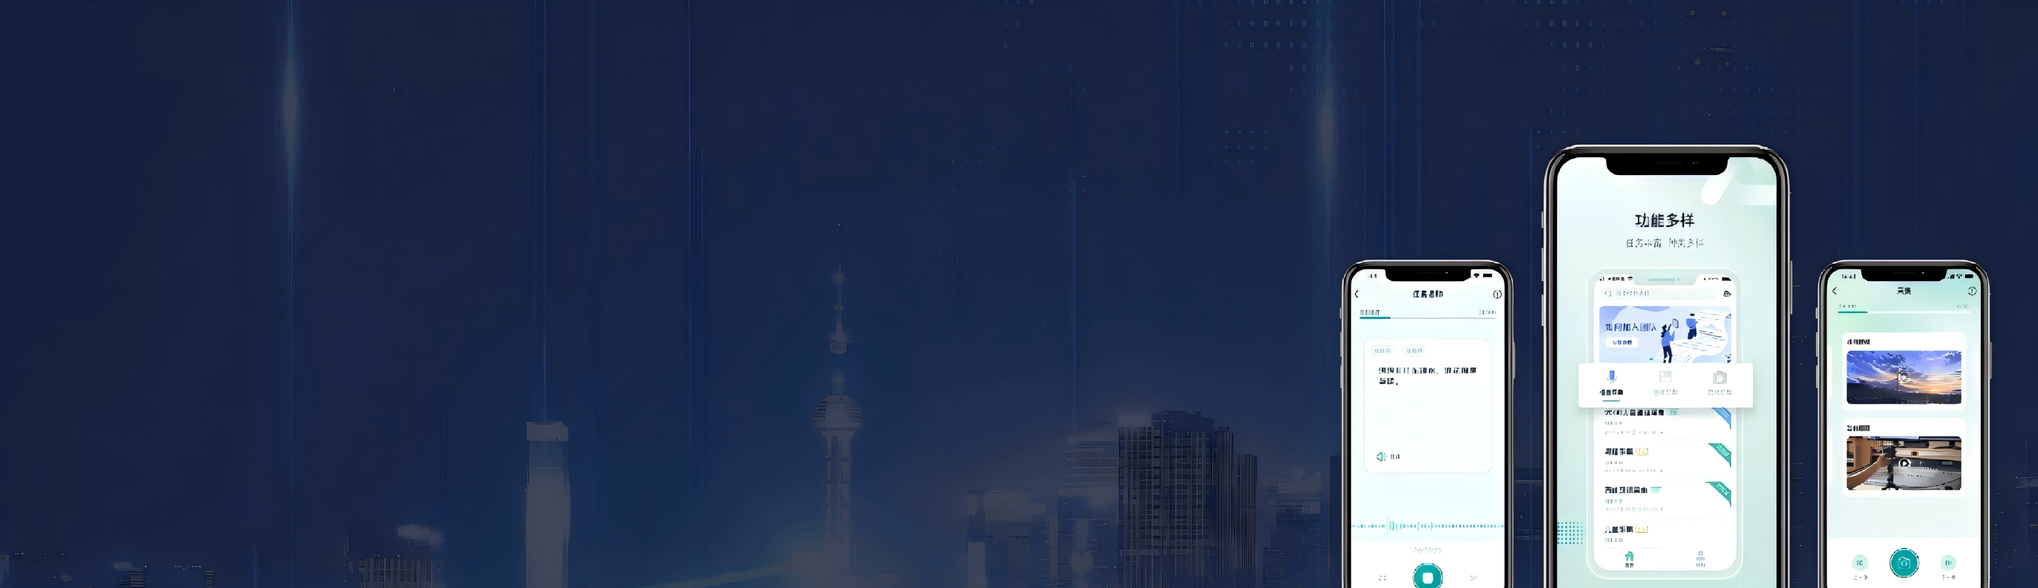
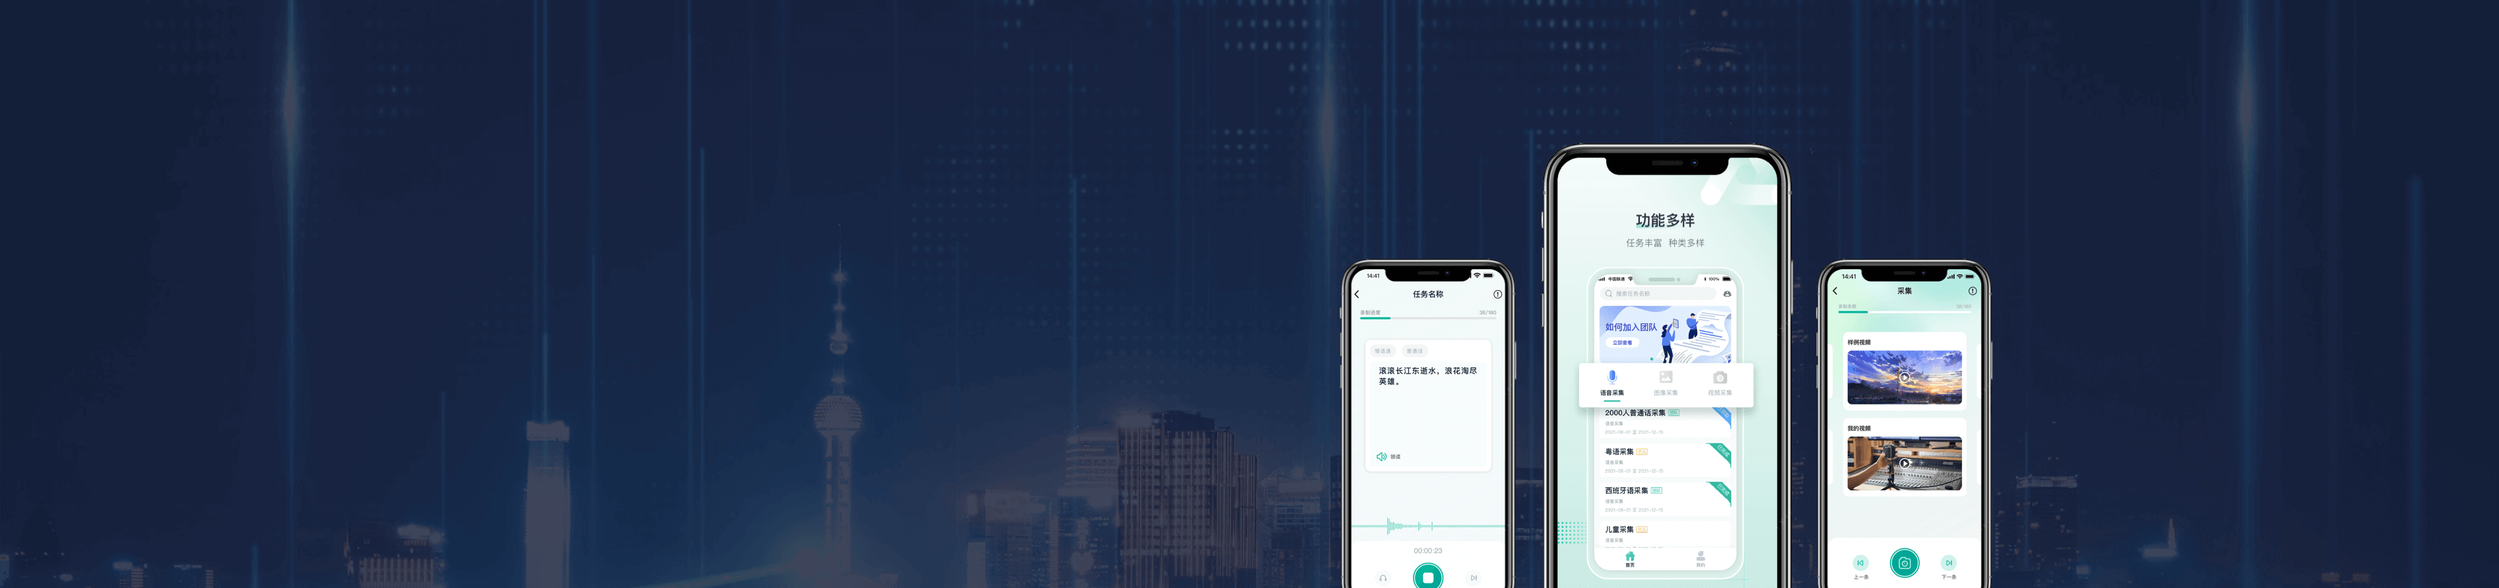
0713修改细节

diff --git a/web/dataset_speech_tts.html b/web/dataset_speech_tts.html
@@ -143,18 +143,35 @@
     <div class="voices-grid" data-reveal>
       <article class="voice-card">
         <div class="voice-head">
+          <div class="voice-avatar va-d">🌐</div>
+          <div class="info">
+            <h3>多人语音合成音库</h3>
+            <div class="voice-tags"><span>多人对话</span><span>多场景</span><span>指令</span></div>
+          </div>
+        </div>
+        <div class="mini-spec">
+          <span style="height:75%;animation-delay:.0s"></span><span style="height:55%;animation-delay:.06s"></span><span style="height:85%;animation-delay:.12s"></span><span style="height:40%;animation-delay:.18s"></span><span style="height:65%;animation-delay:.24s"></span><span style="height:100%;animation-delay:.30s"></span><span style="height:50%;animation-delay:.36s"></span><span style="height:80%;animation-delay:.42s"></span><span style="height:35%;animation-delay:.48s"></span><span style="height:90%;animation-delay:.54s"></span><span style="height:70%;animation-delay:.60s"></span><span style="height:45%;animation-delay:.66s"></span><span style="height:60%;animation-delay:.72s"></span><span style="height:75%;animation-delay:.78s"></span><span style="height:95%;animation-delay:.84s"></span><span style="height:55%;animation-delay:.90s"></span><span style="height:40%;animation-delay:.96s"></span><span style="height:65%;animation-delay:1.02s"></span><span style="height:80%;animation-delay:1.08s"></span><span style="height:50%;animation-delay:1.14s"></span>
+        </div>
+        <p class="voice-quote">「适合多人对话、多场景应用的高质量语音合成音库。</p>
+        <div class="voice-foot">
+          <span>采样率 <b>48 kHz</b></span><span>时长 <b>1700 h+</b></span>
+        </div>
+      </article>
+
+      <article class="voice-card">
+        <div class="voice-head">
           <div class="voice-avatar va-a">🎙</div>
           <div class="info">
-            <h3>外语语音合成音库</h3>
+            <h3>大规模拟真多风格语音合成数据集</h3>
             <div class="voice-tags"><span>native语种</span></div>
           </div>
         </div>
         <div class="mini-spec">
           <span style="height:35%;animation-delay:.0s"></span><span style="height:55%;animation-delay:.06s"></span><span style="height:80%;animation-delay:.12s"></span><span style="height:100%;animation-delay:.18s"></span><span style="height:70%;animation-delay:.24s"></span><span style="height:90%;animation-delay:.30s"></span><span style="height:60%;animation-delay:.36s"></span><span style="height:45%;animation-delay:.42s"></span><span style="height:75%;animation-delay:.48s"></span><span style="height:95%;animation-delay:.54s"></span><span style="height:55%;animation-delay:.60s"></span><span style="height:80%;animation-delay:.66s"></span><span style="height:50%;animation-delay:.72s"></span><span style="height:65%;animation-delay:.78s"></span><span style="height:88%;animation-delay:.84s"></span><span style="height:42%;animation-delay:.90s"></span><span style="height:72%;animation-delay:.96s"></span><span style="height:58%;animation-delay:1.02s"></span><span style="height:84%;animation-delay:1.08s"></span><span style="height:48%;animation-delay:1.14s"></span>
         </div>
-        <p class="voice-quote">「适合多语种、多场景应用的高质量语音合成音库。</p>
+        <p class="voice-quote">「适合多语种、多场景应用的高质量语音合成数据集。</p>
         <div class="voice-foot">
-          <span>采样率 <b>48 kHz</b></span><span>时长 <b>60 h+</b></span>
+          <span>采样率 <b>48 kHz</b></span><span>时长 <b>1000 h+</b></span>
         </div>
       </article>
 
@@ -196,16 +213,33 @@
         <div class="voice-head">
           <div class="voice-avatar va-d">🌐</div>
           <div class="info">
-            <h3>多人语音合成音库</h3>
-            <div class="voice-tags"><span>多人对话</span><span>多场景</span><span>指令</span></div>
+            <h3>多音色情感指令控制数据库</h3>
+            <div class="voice-tags"><span>多情绪</span><span>多场景</span><span>指令</span></div>
           </div>
         </div>
         <div class="mini-spec">
           <span style="height:75%;animation-delay:.0s"></span><span style="height:55%;animation-delay:.06s"></span><span style="height:85%;animation-delay:.12s"></span><span style="height:40%;animation-delay:.18s"></span><span style="height:65%;animation-delay:.24s"></span><span style="height:100%;animation-delay:.30s"></span><span style="height:50%;animation-delay:.36s"></span><span style="height:80%;animation-delay:.42s"></span><span style="height:35%;animation-delay:.48s"></span><span style="height:90%;animation-delay:.54s"></span><span style="height:70%;animation-delay:.60s"></span><span style="height:45%;animation-delay:.66s"></span><span style="height:60%;animation-delay:.72s"></span><span style="height:75%;animation-delay:.78s"></span><span style="height:95%;animation-delay:.84s"></span><span style="height:55%;animation-delay:.90s"></span><span style="height:40%;animation-delay:.96s"></span><span style="height:65%;animation-delay:1.02s"></span><span style="height:80%;animation-delay:1.08s"></span><span style="height:50%;animation-delay:1.14s"></span>
         </div>
-        <p class="voice-quote">「适合多人对话、多场景应用的高质量语音合成音库。</p>
+        <p class="voice-quote">「适合多情绪、多场景应用的高质量语音合成音库。</p>
         <div class="voice-foot">
-          <span>采样率 <b>48 kHz</b></span><span>时长 <b>1700 h+</b></span>
+          <span>采样率 <b>48 kHz</b></span><span>时长 <b>100 h+</b></span>
+        </div>
+      </article>
+
+      <article class="voice-card">
+        <div class="voice-head">
+          <div class="voice-avatar va-d">🌐</div>
+          <div class="info">
+            <h3>多音字语音数据集</h3>
+            <div class="voice-tags"><span>发音标注</span><span>多音字</span><span>标签</span></div>
+          </div>
+        </div>
+        <div class="mini-spec">
+          <span style="height:75%;animation-delay:.0s"></span><span style="height:55%;animation-delay:.06s"></span><span style="height:85%;animation-delay:.12s"></span><span style="height:40%;animation-delay:.18s"></span><span style="height:65%;animation-delay:.24s"></span><span style="height:100%;animation-delay:.30s"></span><span style="height:50%;animation-delay:.36s"></span><span style="height:80%;animation-delay:.42s"></span><span style="height:35%;animation-delay:.48s"></span><span style="height:90%;animation-delay:.54s"></span><span style="height:70%;animation-delay:.60s"></span><span style="height:45%;animation-delay:.66s"></span><span style="height:60%;animation-delay:.72s"></span><span style="height:75%;animation-delay:.78s"></span><span style="height:95%;animation-delay:.84s"></span><span style="height:55%;animation-delay:.90s"></span><span style="height:40%;animation-delay:.96s"></span><span style="height:65%;animation-delay:1.02s"></span><span style="height:80%;animation-delay:1.08s"></span><span style="height:50%;animation-delay:1.14s"></span>
+        </div>
+        <p class="voice-quote">「适合多音字发音标注与语音数据处理的应用场景。</p>
+        <div class="voice-foot">
+          <span>采样率 <b>48 kHz</b></span><span>时长 <b>120 h+</b></span>
         </div>
       </article>
     </div>

diff --git a/web/tool_annotation.html b/web/tool_annotation.html
@@ -161,12 +161,12 @@
     </div>
     <div class="ec-task" data-reveal>
       <div class="ec-admin-grid">
-        <div class="ec-admin-card"><span class="num">01</span><div class="icb"><svg viewBox="0 0 24 24" fill="none" stroke="currentColor" stroke-width="1.7"><path d="M4 5h16M4 12h16M4 19h10"/><path d="M17 16l2 2 4-4"/></svg></div><h4>项目管理</h4><p>统一创建项目、批次、任务包与人员角色，支撑大规模标注生产调度。</p></div>
-        <div class="ec-admin-card"><span class="num">02</span><div class="icb"><svg viewBox="0 0 24 24" fill="none" stroke="currentColor" stroke-width="1.7"><path d="M3 3v18h18"/><path d="M7 15l4-4 3 3 5-7"/></svg></div><h4>进度监控</h4><p>实时查看产能、通过率、返修率与质检结果，让异常节点及时暴露。</p></div>
-        <div class="ec-admin-card"><span class="num">03</span><div class="icb"><svg viewBox="0 0 24 24" fill="none" stroke="currentColor" stroke-width="1.7"><path d="M12 22s8-4 8-10V5l-8-3-8 3v7c0 6 8 10 8 10z"/><path d="M9 12l2 2 4-4"/></svg></div><h4>质检规则</h4><p>按任务类型配置抽检比例、验收阈值、返修规则和多轮审核策略。</p></div>
-        <div class="ec-admin-card"><span class="num">04</span><div class="icb"><svg viewBox="0 0 24 24" fill="none" stroke="currentColor" stroke-width="1.7"><circle cx="6" cy="6" r="2"/><circle cx="18" cy="6" r="2"/><circle cx="12" cy="18" r="2"/><path d="M8 7l3 8M16 7l-3 8"/></svg></div><h4>流程配置</h4><p>按试标、生产、质检、复核、验收配置线上流转，保持过程可追溯。</p></div>
-        <div class="ec-admin-card"><span class="num">05</span><div class="icb"><svg viewBox="0 0 24 24" fill="none" stroke="currentColor" stroke-width="1.7"><path d="M8 9l-4 3 4 3M16 9l4 3-4 3"/><path d="M14 5l-4 14"/></svg></div><h4>脚本配置</h4><p>沉淀题目说明、快捷操作、字段校验和场景化标注模板。</p></div>
-        <div class="ec-admin-card"><span class="num">06</span><div class="icb"><svg viewBox="0 0 24 24" fill="none" stroke="currentColor" stroke-width="1.7"><rect x="5" y="5" width="14" height="14" rx="3"/><path d="M9 2v3M15 2v3M9 19v3M15 19v3M2 9h3M2 15h3M19 9h3M19 15h3"/><path d="M9 12h6"/></svg></div><h4>模型配置</h4><p>接入预标注、辅助质检与自动校验模型，提升标注效率和一致性。</p></div>
+        <div class="ec-admin-card"><div class="icb"><svg viewBox="0 0 24 24" fill="none" stroke="currentColor" stroke-width="1.7"><path d="M4 5h16M4 12h16M4 19h10"/><path d="M17 16l2 2 4-4"/></svg></div><h4>项目管理</h4><p>统一创建项目、批次、任务包与人员角色，支撑大规模标注生产调度。</p></div>
+        <div class="ec-admin-card"><div class="icb"><svg viewBox="0 0 24 24" fill="none" stroke="currentColor" stroke-width="1.7"><path d="M3 3v18h18"/><path d="M7 15l4-4 3 3 5-7"/></svg></div><h4>进度监控</h4><p>实时查看产能、通过率、返修率与质检结果，让异常节点及时暴露。</p></div>
+        <div class="ec-admin-card"><div class="icb"><svg viewBox="0 0 24 24" fill="none" stroke="currentColor" stroke-width="1.7"><path d="M12 22s8-4 8-10V5l-8-3-8 3v7c0 6 8 10 8 10z"/><path d="M9 12l2 2 4-4"/></svg></div><h4>质检规则</h4><p>按任务类型配置抽检比例、验收阈值、返修规则和多轮审核策略。</p></div>
+        <div class="ec-admin-card"><div class="icb"><svg viewBox="0 0 24 24" fill="none" stroke="currentColor" stroke-width="1.7"><circle cx="6" cy="6" r="2"/><circle cx="18" cy="6" r="2"/><circle cx="12" cy="18" r="2"/><path d="M8 7l3 8M16 7l-3 8"/></svg></div><h4>流程配置</h4><p>按试标、生产、质检、复核、验收配置线上流转，保持过程可追溯。</p></div>
+        <div class="ec-admin-card"><div class="icb"><svg viewBox="0 0 24 24" fill="none" stroke="currentColor" stroke-width="1.7"><path d="M8 9l-4 3 4 3M16 9l4 3-4 3"/><path d="M14 5l-4 14"/></svg></div><h4>脚本配置</h4><p>沉淀题目说明、快捷操作、字段校验和场景化标注模板。</p></div>
+        <div class="ec-admin-card"><div class="icb"><svg viewBox="0 0 24 24" fill="none" stroke="currentColor" stroke-width="1.7"><rect x="5" y="5" width="14" height="14" rx="3"/><path d="M9 2v3M15 2v3M9 19v3M15 19v3M2 9h3M2 15h3M19 9h3M19 15h3"/><path d="M9 12h6"/></svg></div><h4>模型配置</h4><p>接入预标注、辅助质检与自动校验模型，提升标注效率和一致性。</p></div>
       </div>
     </div>
   </div>
@@ -200,10 +200,10 @@
           <div class="sec-control-stack">
             <div class="sec-hub"><div><b>权限闭环中台</b><span>USER · TASK · DATA · LOG</span></div></div>
             <div class="sec-control-grid">
-              <div class="sec-control"><i>01</i><b>角色授权</b><span>按组织、项目、任务维度控制可见与可操作范围。</span></div>
-              <div class="sec-control"><i>02</i><b>数据水印</b><span>模板水印与导出标识绑定账号，降低泄露风险。</span></div>
-              <div class="sec-control"><i>03</i><b>登录验证</b><span>账号认证、异常登录提醒和敏感操作二次校验。</span></div>
-              <div class="sec-control"><i>04</i><b>日志审计</b><span>记录任务流转、质检验收、文件导出和 API 调用。</span></div>
+              <div class="sec-control"><b>角色授权</b><span>按组织、项目、任务维度控制可见与可操作范围。</span></div>
+              <div class="sec-control"><b>数据水印</b><span>模板水印与导出标识绑定账号，降低泄露风险。</span></div>
+              <div class="sec-control"><b>登录验证</b><span>账号认证、异常登录提醒和敏感操作二次校验。</span></div>
+              <div class="sec-control"><b>日志审计</b><span>记录任务流转、质检验收、文件导出和 API 调用。</span></div>
             </div>
           </div>
         </div>

diff --git a/web/tool_collection.html b/web/tool_collection.html
@@ -156,7 +156,7 @@
 </head>
 <body>
 <div id="nav-placeholder"></div>
-<section class="page-hero has-hero-img" style="--hero-img:url('images/collection/ecai/ecai.png')">
+<section class="page-hero has-hero-img hero-art-half" style="--hero-img:url('images/collection/ecai/ecai.png')">
   <div class="container">
     <span class="eyebrow">Collection · 标贝易采</span>
     <h1 class="display" style="font-size:clamp(2.2rem,4.8vw,4rem);margin:16px 0 20px;">
@@ -231,12 +231,12 @@
     </div>
     <div class="ec-task" data-reveal>
       <div class="ec-admin-grid">
-        <div class="ec-admin-card"><span class="num">01</span><div class="icb"><svg viewBox="0 0 24 24" fill="none" stroke="currentColor" stroke-width="1.7"><path d="M4 5h16M4 12h16M4 19h10"/><path d="M16 17l2 2 4-4"/></svg></div><h4>样本管理</h4><p>按人群、地区、设备、场景维护样本池，支持采集任务快速匹配。</p></div>
-        <div class="ec-admin-card"><span class="num">02</span><div class="icb"><svg viewBox="0 0 24 24" fill="none" stroke="currentColor" stroke-width="1.7"><path d="M12 20V10"/><path d="M18 20V4"/><path d="M6 20v-6"/></svg></div><h4>进度监控</h4><p>跟踪报名、执行、回收、审核和交付状态，实时掌握采集节奏。</p></div>
-        <div class="ec-admin-card"><span class="num">03</span><div class="icb"><svg viewBox="0 0 24 24" fill="none" stroke="currentColor" stroke-width="1.7"><path d="M4 4h16v6H4zM4 14h7v6H4zM15 14h5v6h-5z"/></svg></div><h4>招募规则</h4><p>配置地域、年龄、设备、环境与配额条件，保证样本结构达标。</p></div>
-        <div class="ec-admin-card"><span class="num">04</span><div class="icb"><svg viewBox="0 0 24 24" fill="none" stroke="currentColor" stroke-width="1.7"><circle cx="5" cy="6" r="2"/><circle cx="19" cy="6" r="2"/><circle cx="12" cy="18" r="2"/><path d="M7 7l4 8M17 7l-4 8"/></svg></div><h4>采集流程</h4><p>自定义报名、培训、采录、上传、初审与复核节点，统一线上流转。</p></div>
-        <div class="ec-admin-card"><span class="num">05</span><div class="icb"><svg viewBox="0 0 24 24" fill="none" stroke="currentColor" stroke-width="1.7"><path d="M6 3h9l3 3v15H6z"/><path d="M15 3v4h4M9 12h6M9 16h4"/></svg></div><h4>场景脚本</h4><p>沉淀话术、动作、拍摄角度、噪声环境等采集脚本，减少现场偏差。</p></div>
-        <div class="ec-admin-card"><span class="num">06</span><div class="icb"><svg viewBox="0 0 24 24" fill="none" stroke="currentColor" stroke-width="1.7"><rect x="5" y="7" width="14" height="11" rx="2"/><path d="M9 7V5h6v2M9 18v2h6v-2M8 12h8"/></svg></div><h4>设备模型</h4><p>管理手机、车机、麦克风、摄像头等设备参数，确保采集标准一致。</p></div>
+        <div class="ec-admin-card"><div class="icb"><svg viewBox="0 0 24 24" fill="none" stroke="currentColor" stroke-width="1.7"><path d="M4 5h16M4 12h16M4 19h10"/><path d="M16 17l2 2 4-4"/></svg></div><h4>样本管理</h4><p>按人群、地区、设备、场景维护样本池，支持采集任务快速匹配。</p></div>
+        <div class="ec-admin-card"><div class="icb"><svg viewBox="0 0 24 24" fill="none" stroke="currentColor" stroke-width="1.7"><path d="M12 20V10"/><path d="M18 20V4"/><path d="M6 20v-6"/></svg></div><h4>进度监控</h4><p>跟踪报名、执行、回收、审核和交付状态，实时掌握采集节奏。</p></div>
+        <div class="ec-admin-card"><div class="icb"><svg viewBox="0 0 24 24" fill="none" stroke="currentColor" stroke-width="1.7"><path d="M4 4h16v6H4zM4 14h7v6H4zM15 14h5v6h-5z"/></svg></div><h4>招募规则</h4><p>配置地域、年龄、设备、环境与配额条件，保证样本结构达标。</p></div>
+        <div class="ec-admin-card"><div class="icb"><svg viewBox="0 0 24 24" fill="none" stroke="currentColor" stroke-width="1.7"><circle cx="5" cy="6" r="2"/><circle cx="19" cy="6" r="2"/><circle cx="12" cy="18" r="2"/><path d="M7 7l4 8M17 7l-4 8"/></svg></div><h4>采集流程</h4><p>自定义报名、培训、采录、上传、初审与复核节点，统一线上流转。</p></div>
+        <div class="ec-admin-card"><div class="icb"><svg viewBox="0 0 24 24" fill="none" stroke="currentColor" stroke-width="1.7"><path d="M6 3h9l3 3v15H6z"/><path d="M15 3v4h4M9 12h6M9 16h4"/></svg></div><h4>场景脚本</h4><p>沉淀话术、动作、拍摄角度、噪声环境等采集脚本，减少现场偏差。</p></div>
+        <div class="ec-admin-card"><div class="icb"><svg viewBox="0 0 24 24" fill="none" stroke="currentColor" stroke-width="1.7"><rect x="5" y="7" width="14" height="11" rx="2"/><path d="M9 7V5h6v2M9 18v2h6v-2M8 12h8"/></svg></div><h4>设备模型</h4><p>管理手机、车机、麦克风、摄像头等设备参数，确保采集标准一致。</p></div>
       </div>
     </div>
   </div>

diff --git a/web/_shared.css b/web/_shared.css
@@ -372,6 +372,32 @@ a.mega-section-title:hover .mst-arrow { opacity: 1; transform: translateX(0); }
 .page-hero.has-hero-img { min-height: 100vh; min-height: 100svh; background: #0a1530 var(--hero-img) right center/cover no-repeat; }
 .page-hero.has-hero-img::before { z-index: 0; background: linear-gradient(90deg, rgba(5,8,19,0.94) 0%, rgba(5,8,19,0.72) 40%, rgba(5,8,19,0.3) 70%, rgba(5,8,19,0.08) 100%); pointer-events: none; }
 .page-hero.has-hero-img > .container { position: relative; z-index: 1; }
+/* 保持 Hero 全屏尺寸，仅将横幅画面缩至 Hero 高度的一半，并柔化画面边缘。 */
+.page-hero.has-hero-img.hero-art-half { background: #0a1530; isolation: isolate; }
+.page-hero.has-hero-img.hero-art-half::before {
+  inset: 0;
+  z-index: 0;
+  background: var(--hero-img) right center / auto 50% no-repeat;
+  -webkit-mask-image: radial-gradient(ellipse 78% 30% at 82% 50%, #000 48%, rgba(0,0,0,0.88) 66%, transparent 100%);
+  mask-image: radial-gradient(ellipse 78% 30% at 82% 50%, #000 48%, rgba(0,0,0,0.88) 66%, transparent 100%);
+  pointer-events: none;
+}
+.page-hero.has-hero-img.hero-art-half::after {
+  inset: 0;
+  z-index: 0;
+  height: auto;
+  background:
+    linear-gradient(90deg, rgba(5,8,19,0.96) 0%, rgba(5,8,19,0.88) 42%, rgba(5,8,19,0.55) 62%, rgba(5,8,19,0.12) 82%, rgba(5,8,19,0.04) 100%),
+    linear-gradient(0deg, var(--grad-line) 0 1px, transparent 1px);
+  pointer-events: none;
+}
+/* 悦读图自身留白更大：校准取景，使手机主体的尺寸与易采 Hero 保持一致。 */
+.page-hero.has-hero-img.hero-art-half.hero-art-reader::before {
+  background-position: 50% center;
+  background-size: auto 60%;
+  -webkit-mask-image: radial-gradient(ellipse 40% 36% at 65% 50%, #000 48%, rgba(0,0,0,0.88) 66%, transparent 100%);
+  mask-image: radial-gradient(ellipse 40% 36% at 65% 50%, #000 48%, rgba(0,0,0,0.88) 66%, transparent 100%);
+}
 .crumbs { display: none !important; align-items: center; gap: 8px; margin-bottom: 22px; color: var(--text-mute); font-family: var(--font-mono); font-size: 11px; letter-spacing: 0.14em; text-transform: uppercase; }
 .crumbs a { color: var(--text-mute); transition: color 180ms ease; }
 .crumbs a:hover { color: var(--brand-hi); }

diff --git a/web/dataset_video.html b/web/dataset_video.html
@@ -213,6 +213,18 @@
     </div>
     <div class="cat-grid" data-reveal>
       <article class="cat-card">
+        <div class="thumb v11">
+          <img src="images/datasets/video/body.png" alt="千人表情肢体高清视频数据库" loading="lazy">
+          <span class="lab">千人表情肢体</span>
+          <span class="duration">4k</span>
+        </div>
+        <div class="body">
+          <h3>千人表情肢体高清视频数据库</h3>
+          <p>室内/室外环境采集，使用索尼、佳能等专业摄像机竖屏录制千人表情肢体动作与相关视频素材。</p>
+          <div class="meta"><span>数据量 <b>74 k+ </b></span><span>格式 <b>MP4</b></span><span>设备 <b>索尼、佳能等专业摄像机</b></span><span>拍摄 <b>竖屏</b></span></div>
+        </div>
+      </article>
+      <article class="cat-card">
         <div class="thumb v1">
           <img src="images/datasets/video/expression-capture.png" alt="表情图像采集项目插图" loading="lazy">
           <span class="lab">表情图像</span>
@@ -344,11 +356,7 @@
           <div class="meta"><span>数据量 <b>219 个</b></span><span>格式 <b>MP4</b></span><span>设备 <b>手机</b></span><span>拍摄 <b>横屏+竖屏</b></span></div>
         </div>
       </article>
-      <article class="ds-card custom">
-        <div class="plus"><svg width="20" height="20" viewBox="0 0 24 24" fill="none" stroke="currentColor" stroke-width="2"><path d="M12 5v14M5 12h14"/></svg></div>
-        <h3>更多数据</h3>
-        <p>没有完全匹配的场景？告诉我们样本规格！即时给出采集与标注方案</p>
-      </article>
+      
     </div>
   </div>
 </section>

diff --git a/web/dataset_speech_asr.html b/web/dataset_speech_asr.html
@@ -224,10 +224,16 @@
         </div>
       </article>
 
-      <article class="ds-card custom">
-        <div class="plus"><svg width="20" height="20" viewBox="0 0 24 24" fill="none" stroke="currentColor" stroke-width="2"><path d="M12 5v14M5 12h14"/></svg></div>
-        <h3>更多数据</h3>
-        <p>没有完全匹配的场景？告诉我们样本规格！即时给出采集与标注方案</p>
+      <article class="ds-card">
+        <div class="head">
+          <div class="icb icb-sm"><svg viewBox="0 0 24 24" fill="none" stroke="currentColor" stroke-width="1.6"><rect x="3" y="4" width="18" height="16" rx="2"/><path d="M7 8h10M7 12h6M7 16h8"/></svg></div>
+          <div class="tags"><span>多人对话</span><span>对话</span></div>
+        </div>
+        <h3>对话指令词数据库</h3>
+        <p>本产品适用于多人对话场景的语音识别与分析，可应用于科研、语音识别/语音模型训练或算法研究、智能科技、输入法、社交、教育、娱乐、游戏、传媒等应用场景。</p>
+        <div class="ds-foot">
+          <span><b>200 h+</b></span><span>小语种</span>
+        </div>
       </article>
     </div>
   </div>

diff --git a/web/_shared.js b/web/_shared.js
@@ -441,7 +441,7 @@
       </button>
       <button class="sidebar-btn" onclick="openTrialModal()" title="${ctaLabel}">
         <svg viewBox="0 0 24 24" fill="none" stroke="currentColor" stroke-width="1.6" stroke-linecap="round" stroke-linejoin="round"><rect x="2" y="3" width="20" height="14" rx="2" ry="2"/><path d="M8 21h8M12 17v4"/></svg>
-        <span class="sb-label">试用</span>
+        <span class="sb-label">留言</span>
       </button>
       <button class="sb-collapse" onclick="document.getElementById('sidebarRight').classList.toggle('collapsed')" title="收起">
         <svg viewBox="0 0 24 24" fill="none" stroke="currentColor" stroke-width="2"><path d="M9 18l6-6-6-6"/></svg>

diff --git a/web/homepage.html b/web/homepage.html
@@ -765,7 +765,7 @@ h2.display, h1.display {
     <div class="section-head" data-reveal>
       <span class="eyebrow"> 02 · Service Matrix</span>
       <h2 class="display">从原始数据到模型可用数据<br/><span class="glow-text">一站式高质量交付</span></h2>
-      <p>采集、标注、数据集——三个引擎协同支撑你的模型训练 / 评测全链路。</p>
+      <p>数据采集、数据标注、成品数据集，一站式支撑模型训练与评测。</p>
     </div>
 
     <div class="svc-grid">

diff --git a/web/tool_reader.html b/web/tool_reader.html
@@ -159,7 +159,7 @@
 </head>
 <body>
 <div id="nav-placeholder"></div>
-<section class="page-hero has-hero-img" style="--hero-img:url('images/tool/DByuedu/yuedu/yuedu-hero.png')">
+<section class="page-hero has-hero-img hero-art-half hero-art-reader" style="--hero-img:url('images/tool/DByuedu/yuedu/yuedu-hero.png')">
   <div class="container">
     <span class="eyebrow">Reader · 标贝悦读</span>
     <h1 class="display" style="font-size:clamp(2.2rem,4.8vw,4rem);margin:16px 0 20px;">
